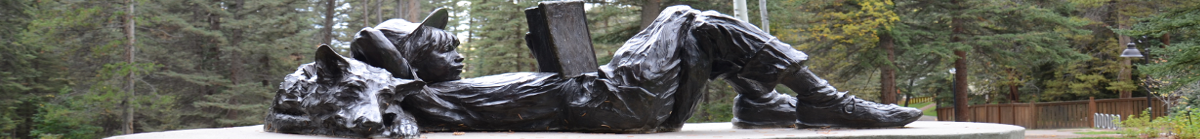
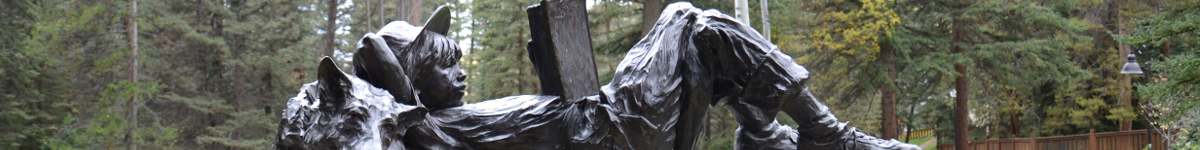
vail theme changes
background image included,
and main theme files

diff --git a/vufind/web/interface/themes/vail/css/variables.less b/vufind/web/interface/themes/vail/css/variables.less
@@ -7,6 +7,8 @@
 @vail_logo_black : #000000; // Black
 @vail_logo_white : #ffffff; // white
 
+@vail_dark_blue : #336699; // from vail library webpage header, http://vail.colibraries.org/
+
 @header-top-color: @vail_logo_white; //Top color for background gradient in header
 @header-middle-color: @vail_logo_white; //middle color for background gradient in header @80% of header height from bottom
 @header-bottom-color: @vail_logo_white; //Bottom color for background gradient in header
@@ -21,15 +23,35 @@
 @header-bottom-border-color: @vail_logo_green;
 
 @footer-top-border-color: @vail_logo_black;
-@header-height: 139px; // matched to header background image
+@header-height: 150px; // matched to header background image
 
 @header_image : url('/interface/themes/vail/images/header_background.png');
+//@header_image : url('/interface/themes/vail/images/DSC_4218 _scaled_1200only.png'); // unscaled vertically.
+//@header_image : url('/interface/themes/vail/images/header_background_fangled.png');
 
-@home-search-top-color: @vail_logo_blue; //Top color for background gradient in header
-@home-search-bottom-color: lighten(@vail_logo_blue, 25%);
 
-@category1MainColor: @vail_logo_blue;
+// vail dark blue
+@home-search-top-color: @vail_dark_blue; //Top color for background gradient in header
+@home-search-bottom-color: lighten(@vail_dark_blue, 25%);
+
+
+//original category option, based on logo blue
+//@category1MainColor: @vail_logo_blue;
+//@categoryLineColor: @vail_logo_green;
+//@categoryLineShadow: darken(@vail_logo_green,20%);
+
+//category alternative, based on wail webpage dark blue
+@category1MainColor: @vail_dark_blue;
 @categoryLineColor: @vail_logo_green;
 @categoryLineShadow: darken(@vail_logo_green,20%);
 
-@selectedCategoryBorderColor: @vail_logo_white;
+////original category option, based on logo green, white bar
+//@category1MainColor: @vail_logo_green;
+//@categoryLineColor: @vail_logo_white;
+//@categoryLineShadow: darken(@vail_logo_white,20%);
+
+////original category option, based on logo green, white bar
+//@category1MainColor: @vail_logo_green;
+//@categoryLineColor: @vail_logo_blue;
+//@categoryLineShadow: darken(@vail_logo_blue,20%);
+

diff --git a/vufind/web/interface/themes/vail/css/main.less b/vufind/web/interface/themes/vail/css/main.less
@@ -9,13 +9,14 @@
 
 #header-container{
   background-image: @header_image;
+  background-position: center;
   border-bottom: 4px solid @vail_logo_green;
 }
 // padding adds light-colored space for the logo to be displayed against a black background
 #header-logo{
   background-color: @header-buttons-background-color;
   border-radius:  0.5em;
-  margin-top: 8px;
+  margin-top: 15px;
   padding: 20px 60px;
 //  margin-top: 20px;
 //  padding: 8px 25px;
@@ -23,7 +24,7 @@
 .header-button{
   border-radius:  0.5em;
   background-color: @header-buttons-background-color;
-  margin-top: 20px;
+  margin-top: 42px;
   height: 60px !important;
   border: 0px;
 }
@@ -40,3 +41,15 @@
   border-bottom: 0px;
   box-shadow: 2px 2px 5px white;
 }
+
+//// for white browse category option
+//.browse-category a{
+////  color: lighten(@vail_logo_black, 20%);
+//  color: @vail_dark_blue;
+//}
+//#home-page-search-label{
+//  color: @vail_dark_blue;
+//}
+//#searchSource {
+//  color: black;
+//}
